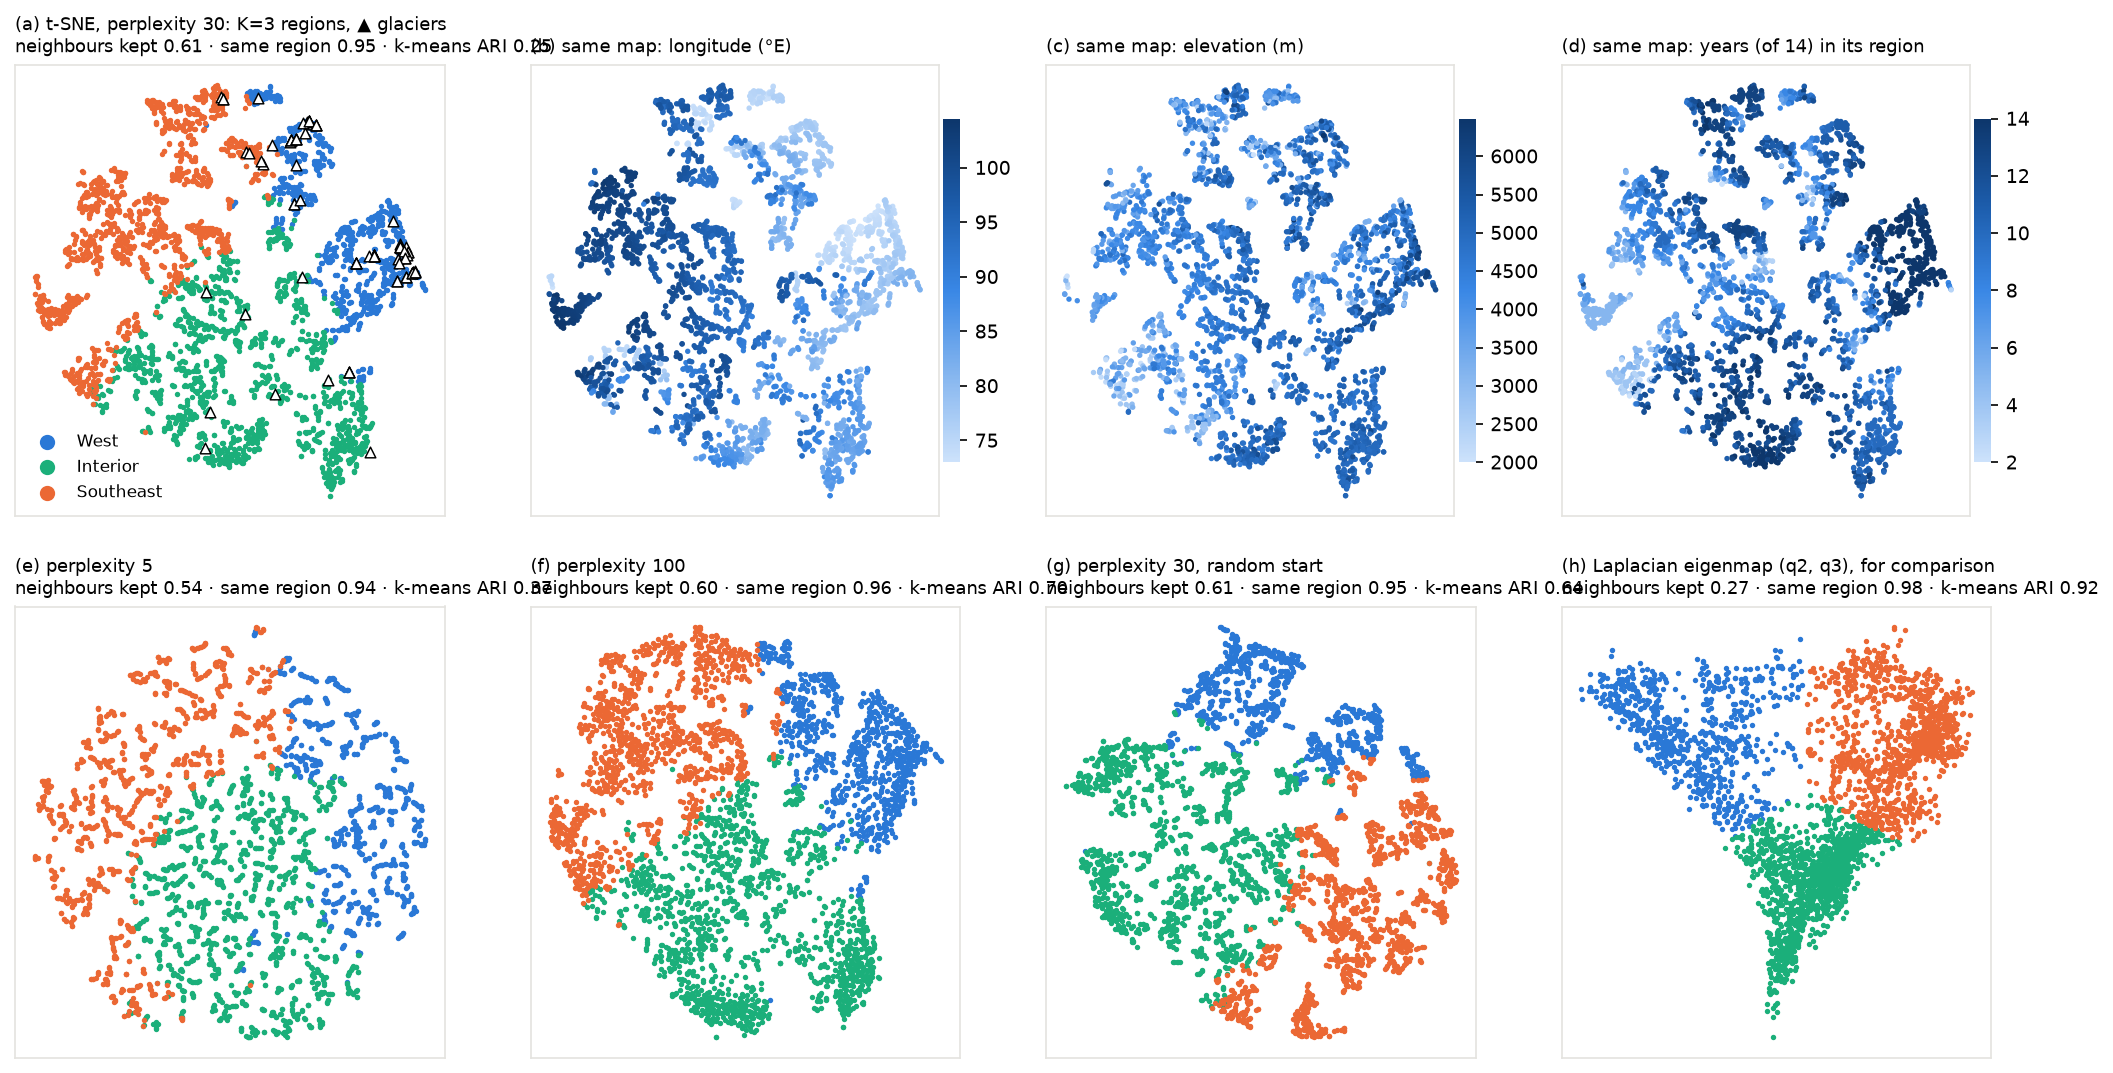
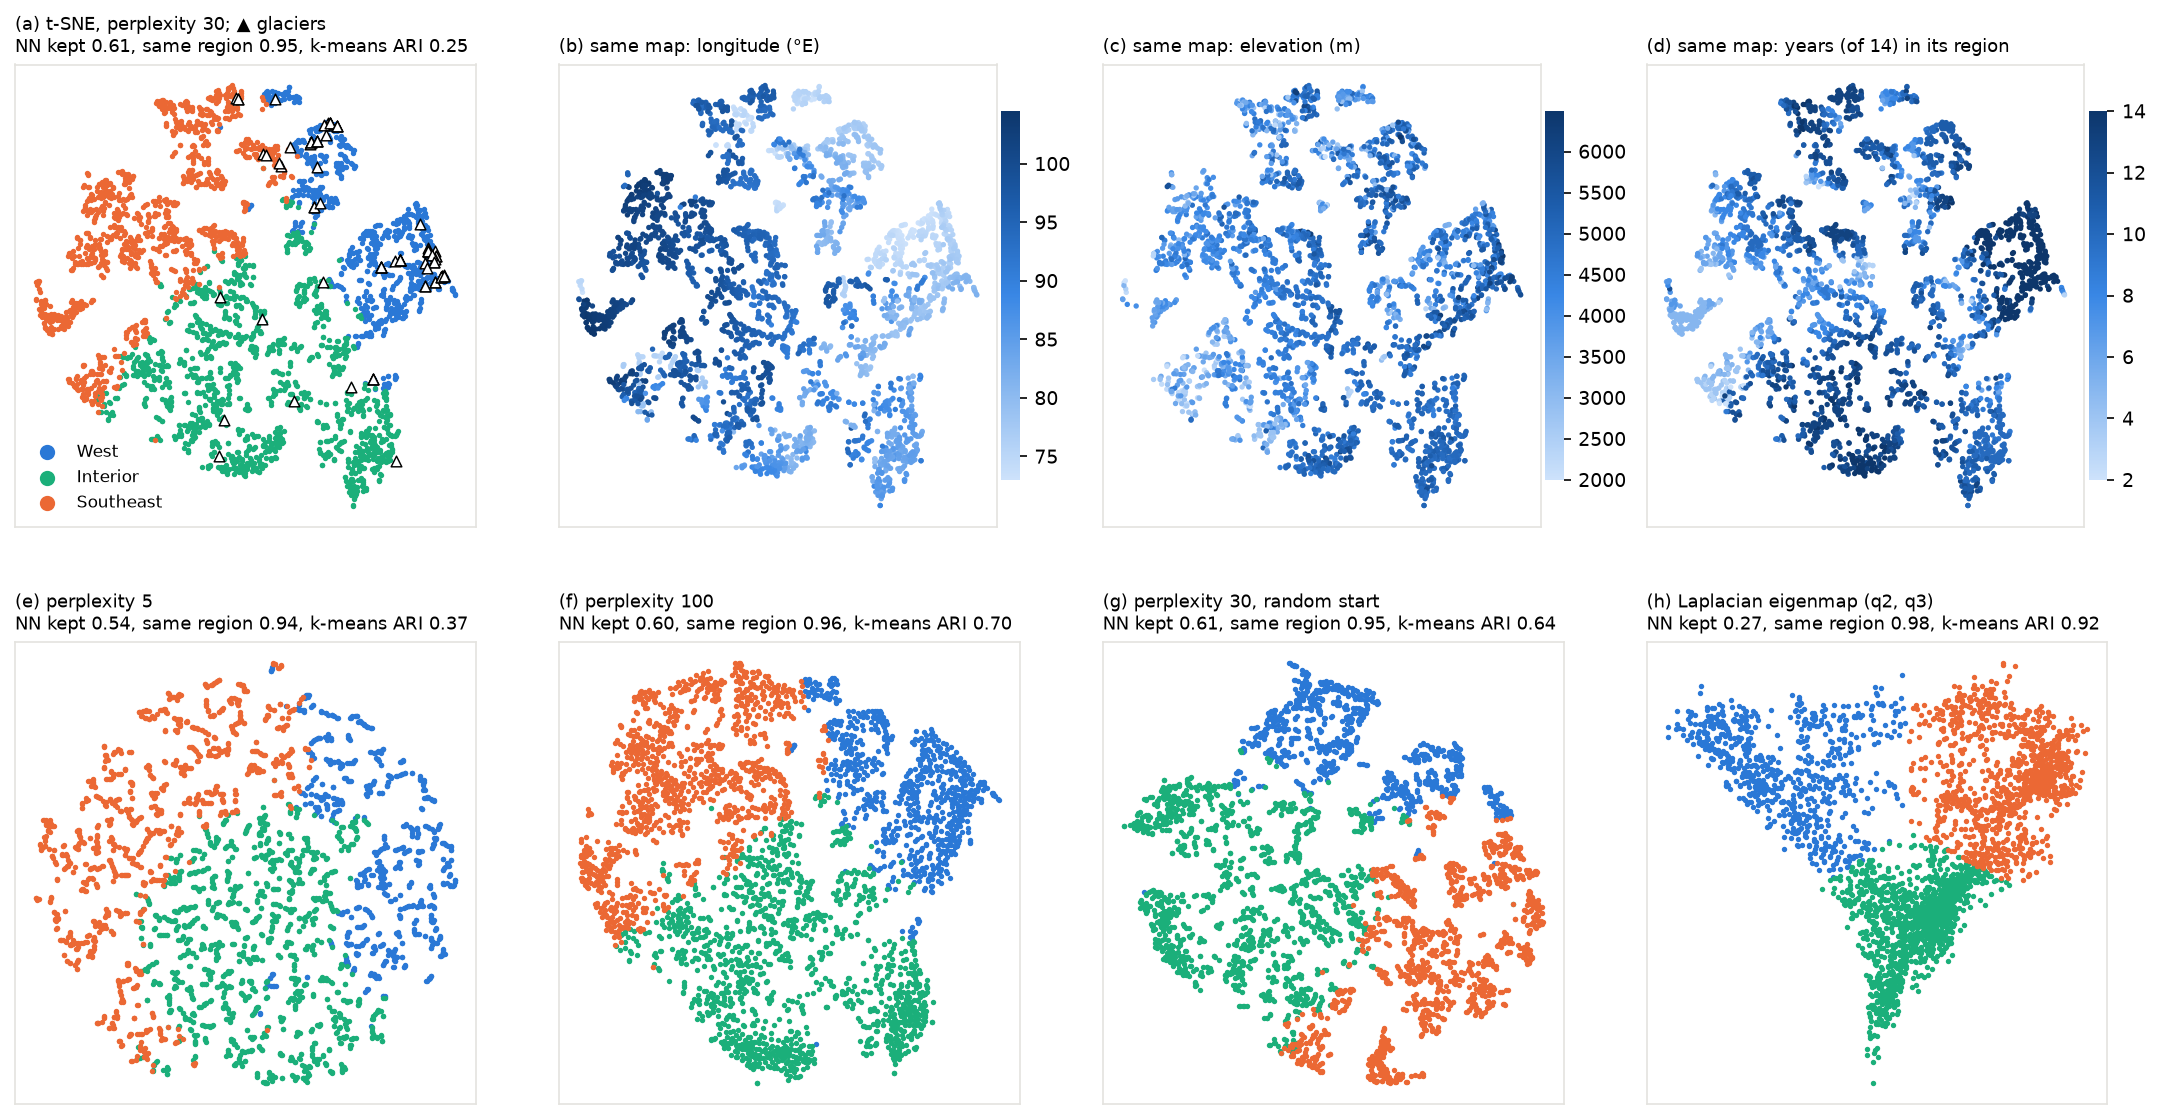
Add t-SNE plot-only mode and refine figure layout

Changed region(s): [[0.0, 0.0, 0.9995, 0.4921], [0.0, 0.5228, 0.9995, 0.9842], [0.2499, 0.4613, 0.2811, 0.4921]]

diff --git a/experiment/run_tsne.py b/experiment/run_tsne.py
@@ -11,6 +11,7 @@ Runs: perplexity 5, 30, 100 from a PCA start, and perplexity 30 from a random st
 The 2-D Laplacian eigenmap (q2, q3) is scored the same way, for comparison.
 """
 import json
+import sys
 import time
 
 import matplotlib
@@ -78,19 +79,26 @@ def main():
     (ROOT / "experiment" / "tsne.json").write_text(json.dumps(out, indent=1))
     np.savez_compressed(ROOT / "results" / "tsne.npz", **{k.replace(" ", "_"): v for k, v in maps.items()})
 
-    # ---------------------------------------------------------------- figure
+    plot(maps, out, z)
+    print(f"done in {time.time() - t0:.0f}s")
+
+
+def plot(maps, out, z):
+    """Figure from saved maps (results/tsne.npz) and scores (experiment/tsne.json)."""
+    lab, Q, vlon, velev, kept, pix2v, g_near = (z[k] for k in ("lab", "Q", "vlon", "velev", "kept", "pix2v", "g_near"))
+    eig = Q[:, 1:3] / Q[:, 1:3].std(0)
     gl = data.glaciers()
     gv = pix2v[g_near]                                         # glacier -> vertex
     main_map = maps["perplexity 30 (PCA start)"]
-    fig, axes = plt.subplots(2, 4, figsize=(17, 8.6))
-    panels = [(main_map, "region", "(a) t-SNE, perplexity 30: K=3 regions, ▲ glaciers"),
+    fig, axes = plt.subplots(2, 4, figsize=(18, 9), gridspec_kw=dict(wspace=0.18, hspace=0.25))
+    panels = [(main_map, "region", "(a) t-SNE, perplexity 30; ▲ glaciers"),
               (main_map, vlon, "(b) same map: longitude (°E)"),
               (main_map, velev, "(c) same map: elevation (m)"),
               (main_map, kept, "(d) same map: years (of 14) in its region"),
               (maps["perplexity 5 (PCA start)"], "region", "(e) perplexity 5"),
               (maps["perplexity 100 (PCA start)"], "region", "(f) perplexity 100"),
               (maps["perplexity 30 (random start)"], "region", "(g) perplexity 30, random start"),
-              (eig, "region", "(h) Laplacian eigenmap (q2, q3), for comparison")]
+              (eig, "region", "(h) Laplacian eigenmap (q2, q3)")]
     for ax, (Y, col, title) in zip(axes.ravel(), panels):
         if isinstance(col, str):
             for j in range(3):
@@ -110,14 +118,19 @@ def main():
             key = "perplexity 30 (PCA start)"
         if key:
             s_ = out[key]
-            title += f"\nneighbours kept {s_['nn_keep']:.2f} · same region {s_['same_reg']:.2f} · k-means ARI {s_['kmeans_ari']:.2f}"
+            title += f"\nNN kept {s_['nn_keep']:.2f}, same region {s_['same_reg']:.2f}, k-means ARI {s_['kmeans_ari']:.2f}"
         ax.set_title(title, fontsize=8.8)
         ax.set_xticks([]); ax.set_yticks([])
         for sp in ax.spines.values():
             sp.set_color(GRID)
     fig.savefig(ROOT / "experiment" / "figures" / "tsne.png")
-    print(f"done in {time.time() - t0:.0f}s")
 
 
 if __name__ == "__main__":
-    main()
+    if "--plot" in sys.argv:                 # redraw from saved results, no new t-SNE runs
+        z = np.load(ROOT / "results" / "experiment.npz")
+        saved = np.load(ROOT / "results" / "tsne.npz")
+        out = json.loads((ROOT / "experiment" / "tsne.json").read_text())
+        plot({k.replace("_", " "): saved[k] for k in saved.files}, out, z)
+    else:
+        main()
